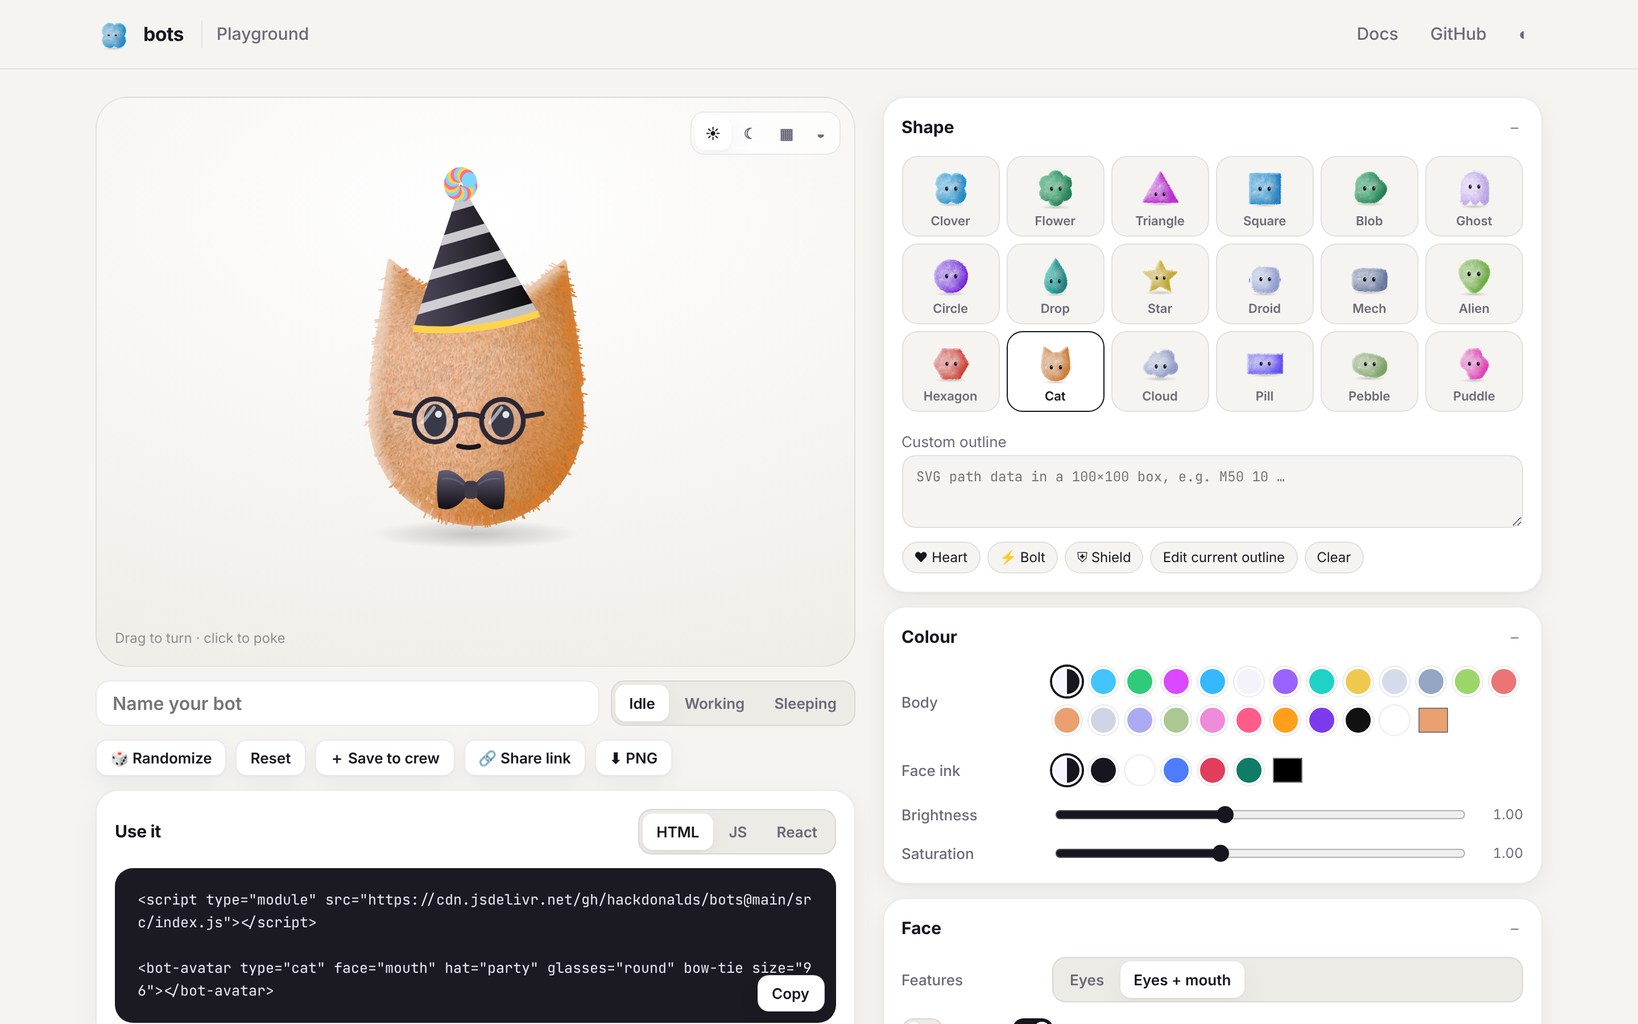
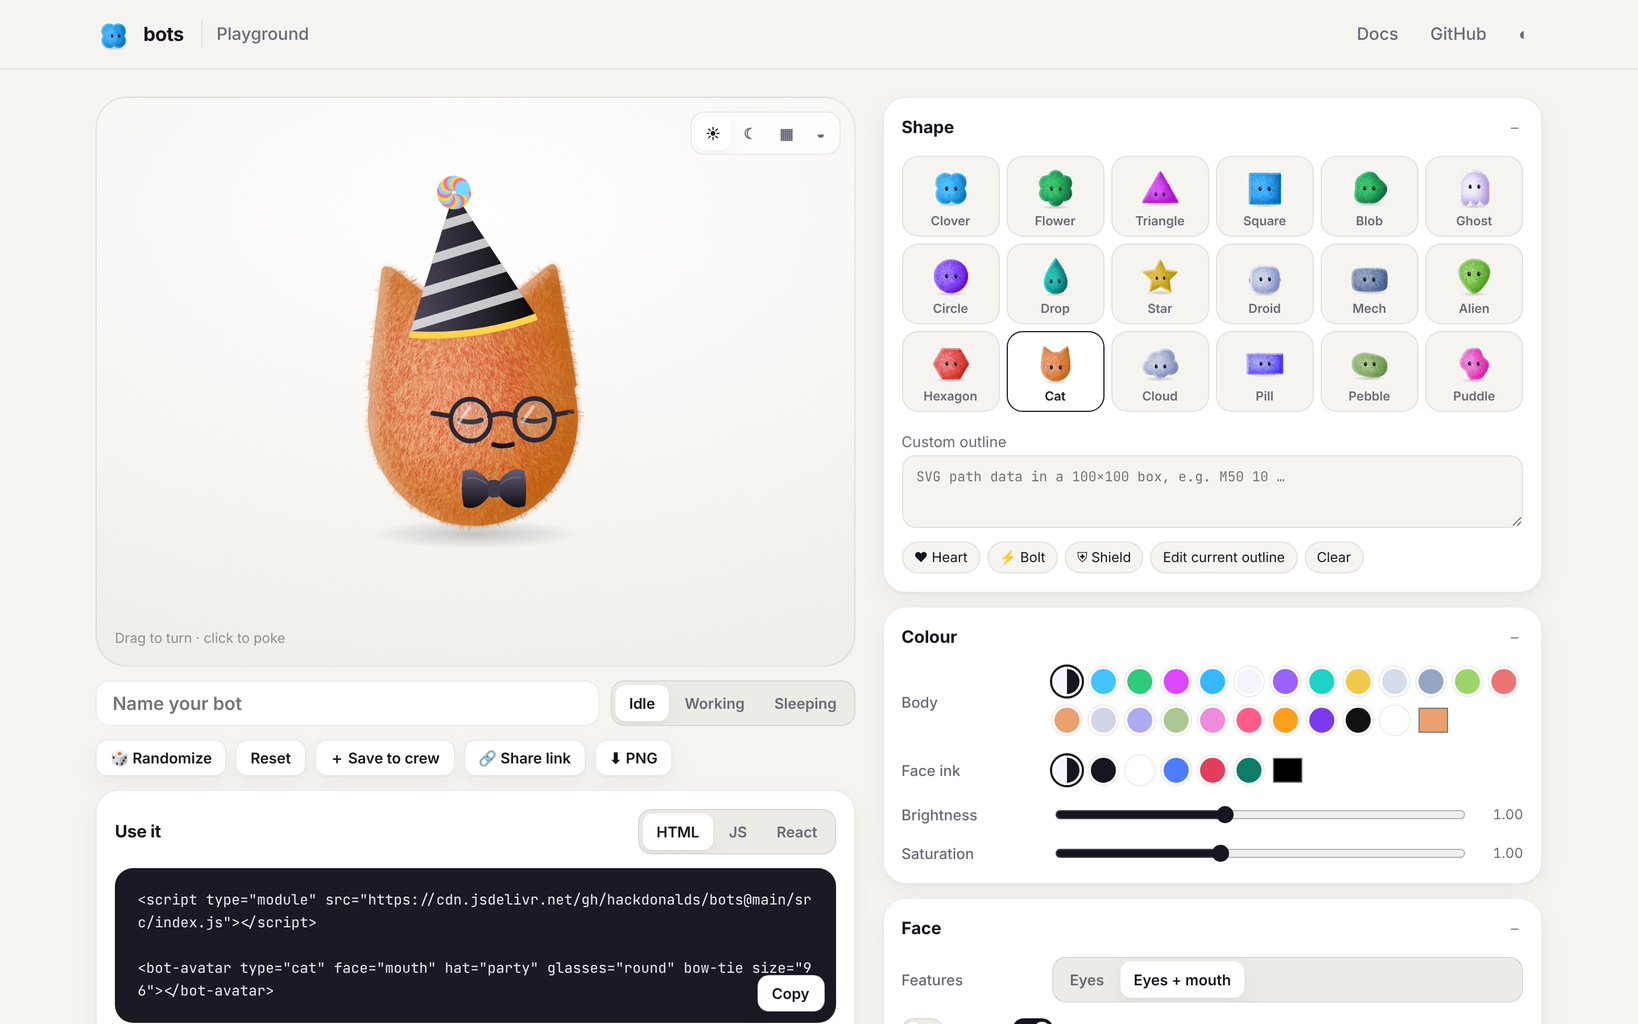
More natural plush: overlay-blended fine pile, soft fuzzy edge, cushion volume
The fur skin is now a colour-independent grey bake laid over the body in
overlay blending (multiply too on pale colours), so the pile keeps the
body's saturation instead of frosting it. Hair-thin strands at device-pixel
scale in deep/body/tip tiers, a crown above the head (no visible parting),
more curl. Adds a broad cushion falloff, a soft fuzz band behind the
silhouette from the cached light buffer, a denser finer fringe, and a
highlight in the body's own colour.

Claude-Session: https://claude.ai/code/session_013h96HCydzUiqHMrSVsiUZ2

diff --git a/src/render.js b/src/render.js
@@ -3,7 +3,7 @@
 // rounding off toward front and back), turned by the pose's yaw and pitch.
 // Light, fur, the face and anything worn are laid over it.
 
-import { shade, rgba, clamp, parseColor } from './color.js';
+import { shade, rgba, clamp, luminance } from './color.js';
 import { mulberry32, smoothstep } from './engine.js';
 
 /** The canvas is this much larger than the avatar's box, so hops never clip. */
@@ -71,18 +71,22 @@ function surface(name, w, h, x = 0, y = 0, cw = w, ch = h) {
 const FAR = 4096;
 const lightCache = new WeakMap();
 
-/** Paint `color × (1 − blur(silhouette shifted by ox, oy))` into `g` (light buffer px). */
-function innerShadowInto(g, M, q, path, { color, blur, ox, oy }, dpr, w, h) {
+/**
+ * Paint `color × (1 − blur(silhouette shifted by ox, oy))` into `g` (light buffer
+ * px), or with `outer`, just `color × blur(silhouette)`.
+ */
+function innerShadowInto(g, M, q, path, { color, blur, ox, oy, outer }, dpr, w, h) {
   // The silhouette is drawn far off the buffer and only its shadow lands on
   // it: a blur that works in every browser, on a handful of pixels.
   g.setTransform(M.a * q, M.b * q, M.c * q, M.d * q, M.e * q - FAR, M.f * q);
-  g.shadowColor = '#000';
+  g.shadowColor = outer ? color : '#000';
   g.shadowBlur = Math.max(0, blur * dpr * q);
   g.shadowOffsetX = FAR + ox * dpr * q;
   g.shadowOffsetY = oy * dpr * q;
   g.fillStyle = '#000';
   g.fill(path);
   g.shadowColor = 'transparent';
+  if (outer) return;
   g.setTransform(1, 0, 0, 1, 0, 0);
   g.globalCompositeOperation = 'source-out';
   g.fillStyle = color;
@@ -98,7 +102,7 @@ function innerShadowInto(g, M, q, path, { color, blur, ox, oy }, dpr, w, h) {
  * @param key    everything the passes depend on besides the pose
  * @param pose   [yaw, pitch, roll, sx, sy] and the device-px scale of each
  */
-function lightLayer(lc, owner, name, path, passes, dpr, q, key, pose, reach) {
+function lightLayer(lc, owner, name, path, passes, dpr, q, key, pose, reach, op = 'source-atop') {
   const M = lc.getTransform();
   const { width: W, height: H } = owner.canvas;
   const w = Math.ceil(W * q) + 2, h = Math.ceil(H * q) + 2;
@@ -129,7 +133,7 @@ function lightLayer(lc, owner, name, path, passes, dpr, q, key, pose, reach) {
   }
   lc.save();
   lc.setTransform(1, 0, 0, 1, M.e - e.e, M.f - e.f);
-  lc.globalCompositeOperation = 'source-atop';
+  lc.globalCompositeOperation = op;
   lc.imageSmoothingEnabled = true;
   lc.drawImage(e.canvas, 0, 0, w, h, 0, 0, w / q, h / q);
   lc.restore();
@@ -137,16 +141,18 @@ function lightLayer(lc, owner, name, path, passes, dpr, q, key, pose, reach) {
 
 // --- Plush -------------------------------------------------------------------
 //
-// The fur is baked once per look into a "skin" in the body's own coordinates and
-// then mapped onto the front of the body every frame with the head's turn, so
-// the pile stays put on the surface instead of sliding under it. The skin is:
-//   · a combed flow field: hair grows out from a crown and falls with gravity,
-//     with a slow noise twisting it into clumps;
-//   · each strand as a dark root (the shadow down inside the pile) and a pale
-//     tip whose brightness follows a Kajiya-Kay fibre term, so strands that lie
-//     across the light catch it and the nap shows as soft bands of sheen;
-//   · low-frequency mottling (the pile pressed one way and another) and fine
-//     grain for the fibre ends.
+// The fur is baked once per shape into a grey "skin" in the body's own
+// coordinates, then laid over the body every frame in 'overlay' blending,
+// mapped with the head's turn so the pile stays put on the surface instead of
+// sliding under it. Overlay darkens and lightens without greying, so one bake
+// serves every colour and the fur keeps the body's full saturation. The skin:
+//   · thousands of short, hair-thin strands at the device's own pixel scale,
+//     painted back to front in tiers: deep pile (dark), body, then tips;
+//   · combed by a flow field — hair grows out from a crown and falls with
+//     gravity, twisted into clumps by a slow noise;
+//   · tips lit by a Kajiya-Kay fibre term, so strands lying across the light
+//     catch it and the nap shows soft bands of sheen;
+//   · faint low-frequency mottling, the pile pressed one way and another.
 
 function valueNoise(rand, n) {
   const g = new Float32Array((n + 1) * (n + 1));
@@ -164,96 +170,89 @@ function valueNoise(rand, n) {
 }
 
 /** How far past the outline (in body units) the skin reaches. */
-const SKIN_EXT = 1.25;
+const SKIN_EXT = 1.2;
 let shapeIds = 0;
 const skins = new Map();
 
 function furSkin(shape, look, la, px) {
   const fl = look.furLength ?? 1, fd = look.furDensity ?? 1.6, fc = look.furCurl ?? 0.7, fg = look.furGravity ?? 0.9;
   // Bake at a resolution bucket so a resize doesn't re-bake every pixel step.
-  const P = Math.min(300, Math.max(24, Math.ceil(px / 16) * 16));
+  const P = Math.min(260, Math.max(24, Math.ceil(px / 16) * 16));
   const id = shape._id ??= ++shapeIds;
-  const key = `${id}|${look.color}|${fl}|${fd}|${fc}|${fg}|${Math.round(la * 100)}|${P}`;
+  const key = `${id}|${fl}|${fd}|${fc}|${fg}|${Math.round(la * 100)}|${P}`;
   let skin = skins.get(key);
   if (skin) { skins.delete(key); skins.set(key, skin); return skin; }
 
   const S = Math.ceil(SKIN_EXT * 2 * P);
   const canvas = makeCanvas(S, S);
   const g = canvas.getContext('2d');
-  const toPx = (v) => (v + SKIN_EXT) * P;
   const rand = mulberry32(0.6180339);
-  const base = look.color;
   const lx = Math.sin(la), ly = -Math.cos(la);
+  g.fillStyle = '#808080';
+  g.fillRect(0, 0, S, S);
 
   // Mottling.
-  const big = valueNoise(rand, 5), mid = valueNoise(rand, 11);
-  const m = Math.max(16, Math.round(S / 6));
+  const big = valueNoise(rand, 4), mid = valueNoise(rand, 9);
+  const m = 48;
   const mc = makeCanvas(m, m), mg = mc.getContext('2d');
   const img = mg.createImageData(m, m);
-  const [dr, dg, db] = parseColor(shade(base, -0.4, 4, 1.1)), [hr, hg, hb] = parseColor(shade(base, 0.3, 0, 0.85));
   for (let y = 0; y < m; y++) for (let x = 0; x < m; x++) {
-    const v = big(x / m, y / m) * 0.65 + mid(x / m, y / m) * 0.35;
+    const v = big(x / m, y / m) * 0.6 + mid(x / m, y / m) * 0.4;
     const o = (y * m + x) * 4;
-    const lit = v > 0;
-    img.data[o] = lit ? hr : dr; img.data[o + 1] = lit ? hg : dg; img.data[o + 2] = lit ? hb : db;
-    img.data[o + 3] = Math.round(Math.min(1, Math.abs(v) * (lit ? 0.22 : 0.34)) * 255);
+    img.data[o] = img.data[o + 1] = img.data[o + 2] = v > 0 ? 255 : 0;
+    img.data[o + 3] = Math.round(Math.min(1, Math.abs(v) * 0.13) * 255);
   }
   mg.putImageData(img, 0, 0);
   g.imageSmoothingEnabled = true;
   g.drawImage(mc, 0, 0, m, m, 0, 0, S, S);
 
-  // Strands.
-  const clumpA = valueNoise(rand, 7), clumpB = valueNoise(rand, 17);
-  const crownY = shape.bounds.minY + (shape.bounds.maxY - shape.bounds.minY) * 0.28;
+  // Strands, sized in device pixels: a hair is a hair at any avatar size.
+  const clumpA = valueNoise(rand, 6), clumpB = valueNoise(rand, 15);
+  // The crown sits above the head, so the parting itself never shows.
+  const crownY = shape.bounds.minY - 0.9;
   const L3 = Math.hypot(lx, ly, 0.9);
   const Lx = lx / L3, Ly = ly / L3, Lz = 0.9 / L3;
-  const BUCKETS = 5;
-  const roots = Array.from({ length: BUCKETS }, () => new Path2D());
-  const tips = Array.from({ length: BUCKETS }, () => new Path2D());
+  const hair = clamp(P * 0.032 * fl, 2.5, 8);
+  const width = clamp(P / 160, 0.55, 1.1);
   const { minX, maxX, minY, maxY } = shape.bounds;
-  const area = (maxX - minX + 0.3) * (maxY - minY + 0.3);
-  const n = Math.round(clamp(area * 4200 * (fd / 1.6) / Math.max(0.6, fl), 1200, 22000));
+  const x0 = (minX - 0.12 + SKIN_EXT) * P, y0 = (minY - 0.12 + SKIN_EXT) * P;
+  const bw = (maxX - minX + 0.24) * P, bh = (maxY - minY + 0.24) * P;
+  const TIERS = 3, SHADES = 4;
+  const tiers = Array.from({ length: TIERS }, () => Array.from({ length: SHADES }, () => new Path2D()));
+  const n = Math.round(clamp((bw * bh * 2.2 * (fd / 1.6)) / (hair * width), 2000, 60000));
   for (let i = 0; i < n; i++) {
-    const x = minX - 0.15 + rand() * (maxX - minX + 0.3);
-    const y = minY - 0.15 + rand() * (maxY - minY + 0.3);
+    const X = x0 + rand() * bw, Y = y0 + rand() * bh;
+    const x = X / P - SKIN_EXT, y = Y / P - SKIN_EXT;
     const u = (x + SKIN_EXT) / (2 * SKIN_EXT), v = (y + SKIN_EXT) / (2 * SKIN_EXT);
     const c1 = clumpA(u, v), c2 = clumpB(u, v);
-    // Tufts: strands thin out in the partings between clumps.
-    if (rand() > 0.62 + 0.38 * c1 * c1 + 0.2 * c2) continue;
     let dx = x, dy = y - crownY;
     const d = Math.hypot(dx, dy) || 1;
-    dx = (dx / d) * 0.6; dy = (dy / d) * 0.6 + fg * 0.75;
-    const ang = Math.atan2(dy, dx) + (c1 * 1.1 + c2 * 0.5) * fc + (rand() - 0.5) * 0.35;
+    dx = (dx / d) * 0.9; dy = (dy / d) * 0.9 + fg * 0.5;
+    const ang = Math.atan2(dy, dx) + (c1 * 1.2 + c2 * 0.6) * fc + (rand() - 0.5) * (0.4 + 0.8 * fc);
     const tx = Math.cos(ang), ty = Math.sin(ang);
-    const len = (0.035 + rand() * 0.045) * fl * (0.85 + 0.3 * c1);
-    const bend = (rand() - 0.5) * fc * len * 0.9;
-    // Kajiya-Kay: a fibre is brightest when it lies across the light.
-    const tz = -0.35, tl = Math.hypot(tx, ty, tz);
-    const TL = (tx * Lx + ty * Ly + tz * Lz) / tl;
-    const kk = Math.sqrt(Math.max(0, 1 - TL * TL));
-    const b = clamp(Math.floor((kk * 0.75 + rand() * 0.35) * BUCKETS), 0, BUCKETS - 1);
-    const X = toPx(x), Y = toPx(y), l = len * P, bx = -ty * bend * P, by = tx * bend * P;
-    const rp = roots[clamp(Math.floor(rand() * BUCKETS), 0, BUCKETS - 1)];
-    rp.moveTo(X - tx * l * 0.15, Y - ty * l * 0.15);
-    rp.quadraticCurveTo(X + tx * l * 0.25 + bx * 0.5, Y + ty * l * 0.25 + by * 0.5, X + tx * l * 0.55, Y + ty * l * 0.55);
-    const tp = tips[b];
-    tp.moveTo(X + tx * l * 0.2, Y + ty * l * 0.2);
-    tp.quadraticCurveTo(X + tx * l * 0.6 + bx, Y + ty * l * 0.6 + by, X + tx * l, Y + ty * l);
+    const l = hair * (0.6 + rand() * 0.8);
+    const bend = (rand() - 0.5) * fc * l * 1.1;
+    const tier = i < n * 0.45 ? 0 : i < n * 0.85 ? 1 : 2;
+    let shadeI;
+    if (tier === 0) shadeI = Math.floor(rand() * SHADES);
+    else {
+      // Kajiya-Kay: a fibre is brightest when it lies across the light.
+      const tz = -0.4, tl = Math.hypot(tx, ty, tz);
+      const TL = (tx * Lx + ty * Ly + tz * Lz) / tl;
+      const kk = Math.sqrt(Math.max(0, 1 - TL * TL));
+      shadeI = clamp(Math.floor((kk * 0.7 + rand() * 0.45 + c2 * 0.15) * SHADES), 0, SHADES - 1);
+    }
+    const p = tiers[tier][shadeI];
+    p.moveTo(X, Y);
+    p.quadraticCurveTo(X + tx * l * 0.5 - ty * bend, Y + ty * l * 0.5 + tx * bend, X + tx * l, Y + ty * l);
   }
-  const darkC = shade(base, -0.42, 6, 1.15), tipC = shade(base, 0.38, -4, 0.8);
   g.lineCap = 'round';
-  g.lineWidth = Math.max(0.6, P * 0.012);
-  roots.forEach((p, i) => { g.strokeStyle = rgba(darkC, 0.08 + i * 0.03); g.stroke(p); });
-  g.lineWidth = Math.max(0.45, P * 0.0075);
-  tips.forEach((p, i) => { g.strokeStyle = rgba(tipC, 0.04 + i * 0.055); g.stroke(p); });
-
-  // Grain.
-  const grain = [new Path2D(), new Path2D()];
-  const dots = Math.round(S * S * 0.012);
-  const dot = Math.max(1, P / 80);
-  for (let i = 0; i < dots; i++) grain[i & 1].rect(rand() * S, rand() * S, dot, dot);
-  g.fillStyle = rgba(darkC, 0.16); g.fill(grain[0]);
-  g.fillStyle = rgba(tipC, 0.16); g.fill(grain[1]);
+  g.lineWidth = width * 1.3;
+  tiers[0].forEach((p, i) => { g.strokeStyle = `rgba(0,0,0,${0.28 + i * 0.07})`; g.stroke(p); });
+  g.lineWidth = width;
+  tiers[1].forEach((p, i) => { g.strokeStyle = i < 2 ? `rgba(0,0,0,${0.26 - i * 0.1})` : `rgba(255,255,255,${0.06 + (i - 2) * 0.07})`; g.stroke(p); });
+  g.lineWidth = width * 0.85;
+  tiers[2].forEach((p, i) => { g.strokeStyle = i < 1 ? 'rgba(0,0,0,0.16)' : `rgba(255,255,255,${0.07 + (i - 1) * 0.08})`; g.stroke(p); });
 
   skin = { canvas, P, S };
   skins.set(key, skin);
@@ -488,6 +487,10 @@ export function drawBot(ctx, { size, dpr = 1, pose, look, time = 0 }) {
   lc.fill(body);
   lc.globalCompositeOperation = 'source-atop';
   const cover = () => lc.fillRect(-R * 3, -R * 3, R * 6, R * 6);
+  const Rpx = R * dpr;
+  const poseSig = [pose.yaw, pose.pitch, pose.roll, pose.sx, pose.sy];
+  const moves = [Rpx * (1 + D), Rpx * (1 + D), Rpx * 2, Rpx, Rpx * 2];
+  const lightKey = `${shape._id ??= ++shapeIds}|${R}|${D}|${dpr}|${la}|${base}|${look.shading}|${shadowK}|${highK}|${rimK}|${look.spread}`;
 
   // Turn shading: the side that shows as the head turns.
   {
@@ -512,30 +515,39 @@ export function drawBot(ctx, { size, dpr = 1, pose, look, time = 0 }) {
       // The baked skin rides on the front of the body with the turn. Seen edge
       // on it would smear, so it gives way to the slices' own shading there.
       const skin = furSkin(shape, look, la, R * dpr);
-      const zf = D * 0.6;
+      const zf = D * 0.6, e = SKIN_EXT;
+      const facingK = smoothstep(Math.abs(c0) * 1.4 - 0.2);
       lc.save();
-      lc.transform(R * c, -R * s * sp, 0, R * cp, R * zf * s, R * zf * c0 * sp);
-      const e = SKIN_EXT;
-      for (const [alpha, dz] of [[0.55, -2 * zf], [1, 0]]) {
+      // Overlay can't darken near-white, so pale bodies also take the skin
+      // in 'multiply' to show their pile.
+      const pale = clamp((luminance(base) - 0.5) * 1.2, 0, 0.5);
+      for (const [alpha, dz, op] of [[0.6, -2 * zf, 'overlay'], [1, 0, 'overlay'], [pale, 0, 'multiply']]) {
+        if (alpha <= 0) continue;
+        lc.globalCompositeOperation = op;
         // A second, fainter copy at the back covers the side that shows mid-turn.
         if (alpha < 1 && Math.abs(s) < 0.15) continue;
-        lc.globalAlpha = alpha * (0.35 + 0.65 * smoothstep(Math.abs(c0) * 1.4 - 0.2));
-        lc.drawImage(skin.canvas, 0, 0, skin.S, skin.S, -e + (dz * s) / c, -e + (dz * sp * (c0 + (s * s) / c)) / cp, 2 * e, 2 * e);
+        const pat = lc.createPattern(skin.canvas, 'no-repeat');
+        if (!pat) continue;
+        const z = zf + dz;
+        // Skin pixels → body units → the front of the body, turned.
+        pat.setTransform(new DOMMatrix([R * c, -R * s * sp, 0, R * cp, R * z * s, R * z * c0 * sp])
+          .translate(-e, -e).scale(1 / skin.P));
+        lc.globalAlpha = alpha * (0.55 + 0.45 * facingK);
+        lc.fillStyle = pat;
+        lc.fill(body);
       }
       lc.restore();
     }
 
     const q = clamp(120 / Math.max(W, H), 0.2, 0.5);
-    const Rpx = R * dpr;
-    const poseSig = [pose.yaw, pose.pitch, pose.roll, pose.sx, pose.sy];
-    const moves = [Rpx * (1 + D), Rpx * (1 + D), Rpx * 2, Rpx, Rpx * 2];
-    const lightKey = `${shape._id ??= ++shapeIds}|${R}|${D}|${dpr}|${la}|${base}|${look.shading}|${shadowK}|${highK}|${rimK}|${look.spread}`;
     // Shade side (an inner shadow pushed toward the light) and occlusion all
     // round the edge for the inflated look, in one buffer.
     const blur = R * (fabric ? 0.55 : look.shading === 'smooth' ? 0.7 : 0.45) * (look.spread ?? 1.4) / 1.4;
     lightLayer(lc, ctx, 'shade', body, [
-      { color: rgba(darkC, clamp(0.62 * shadowK, 0, 1)), blur, ox: lx * R * 0.32, oy: ly * R * 0.32 },
-      { color: rgba(darkC, clamp(0.32 * shadowK, 0, 1)), blur: R * 0.16, ox: 0, oy: 0 },
+      { color: rgba(darkC, clamp(0.7 * shadowK, 0, 1)), blur, ox: lx * R * 0.32, oy: ly * R * 0.32 },
+      { color: rgba(darkC, clamp(0.38 * shadowK, 0, 1)), blur: R * 0.2, ox: 0, oy: 0 },
+      // Plush is a cushion: it falls off broadly toward every edge.
+      ...(fabric ? [{ color: rgba(darkC, clamp(0.3 * shadowK, 0, 1)), blur: R * 0.6, ox: 0, oy: R * 0.05 }] : []),
     ], dpr, q, lightKey, poseSig, moves);
 
     // Lit side.
@@ -543,15 +555,19 @@ export function drawBot(ctx, { size, dpr = 1, pose, look, time = 0 }) {
     const spread = look.spread ?? 1.4;
     const g = lc.createRadialGradient(hx, hy, 0, hx, hy, R * 0.95 * spread);
     const hiA = (fabric ? 0.2 : look.shading === 'plastic' ? 0.3 : 0.26) * highK;
-    g.addColorStop(0, `rgba(255,255,255,${clamp(hiA)})`);
-    g.addColorStop(1, 'rgba(255,255,255,0)');
+    // Plush lights in its own colour; white would grey it.
+    const hiC = fabric ? shade(base, 0.32, 0, 1.05) : '#ffffff';
+    // Pale bodies are already near white: they take less of it.
+    const hiF = fabric ? 1.3 * (1 - 0.9 * luminance(base)) : 1;
+    g.addColorStop(0, rgba(hiC, clamp(hiA * hiF)));
+    g.addColorStop(1, rgba(hiC, 0));
     lc.fillStyle = g;
     cover();
 
     // Back light / Fresnel rim on the far side from the key. Velvet and plush
     // scatter most at grazing angles, so the fabric rim is a soft sheen.
     if (rimK > 0 && look.shading !== 'smooth') {
-      const rimCol = look.shading === 'plastic' ? 'rgba(255,255,255,0.75)' : rgba(shade(base, fabric ? 0.32 : 0.35, 0, fabric ? 0.75 : 1), fabric ? 0.75 : 0.9);
+      const rimCol = look.shading === 'plastic' ? 'rgba(255,255,255,0.75)' : rgba(shade(base, fabric ? 0.25 : 0.35, 0, 1), fabric ? 0.45 : 0.9);
       lightLayer(lc, ctx, 'rim', body, [{
         color: rimCol,
         blur: R * (look.shading === 'crisp' ? 0.02 : 0.08) * (0.6 + rimK),
@@ -591,6 +607,15 @@ export function drawBot(ctx, { size, dpr = 1, pose, look, time = 0 }) {
     lc.restore();
   }
 
+  if (fabric) {
+    // The pile seen edge on: a soft, semi-transparent band of fuzz just
+    // outside the silhouette, behind the body, darker where it's in shade.
+    const fuzz = (look.furFuzz ?? 0.9) * (look.furLength ?? 1);
+    lightLayer(lc, ctx, 'fuzz', body, [
+      { color: rgba(shade(base, -0.18, 2, 0.6), 0.5), blur: R * 0.035 * fuzz, ox: -lx * R * 0.01, oy: -ly * R * 0.01, outer: true },
+    ], dpr, clamp(170 / Math.max(W, H), 0.3, 0.7), `${lightKey}|${fuzz}`, poseSig, moves, 'destination-over');
+  }
+
   if (look.shading === 'crisp') {
     // Behind the body, so only the silhouette's outline shows, not every slice.
     lc.globalCompositeOperation = 'destination-over';
@@ -610,7 +635,7 @@ export function drawBot(ctx, { size, dpr = 1, pose, look, time = 0 }) {
     const fuzz = look.furFuzz ?? 0.9;
     const grav = look.furGravity ?? 0.9;
     const curl = look.furCurl ?? 0.7;
-    const list = strands(shape, Math.round(900 * (look.furDensity ?? 1.6) / 1.6 * (0.4 + fuzz)));
+    const list = strands(shape, Math.round(2400 * (look.furDensity ?? 1.6) / 1.6 * (0.4 + fuzz)));
     const TONES = 3;
     const paths = Array.from({ length: TONES }, () => new Path2D());
     const swayT = time * 2.2;
@@ -627,18 +652,18 @@ export function drawBot(ctx, { size, dpr = 1, pose, look, time = 0 }) {
       let dx = nx1 + st.jitter * 0.5, dy = ny1 + grav * 0.45 + Math.sin(swayT + st.tone * 6) * 0.04;
       const l = Math.hypot(dx, dy) || 1;
       dx /= l; dy /= l;
-      const len = R * 0.05 * fl * st.len * (0.6 + fuzz * 0.6) * (1 - a * 1.2);
+      const len = R * 0.055 * fl * st.len * (0.6 + fuzz * 0.6) * (1 - a * 1.2);
       const bx = -dy * st.bend * curl * len * 0.8, by = dx * st.bend * curl * len * 0.8;
       const lit = clamp(0.5 + 0.5 * (nx1 * lx + ny1 * ly) + (st.tone - 0.5) * 0.5, 0, 0.999);
       const p = paths[Math.floor(lit * TONES)];
       // Short enough that a straight stroke with a bent tip reads as a curl.
-      p.moveTo(X - dx * len * 0.5, Y - dy * len * 0.5);
+      p.moveTo(X - dx * len * 0.7, Y - dy * len * 0.7);
       p.lineTo(X + dx * len + bx, Y + dy * len + by);
     }
     ctx.lineCap = 'butt';
     // Tones match the body where each strand grows: shaded, mid and lit.
-    ctx.lineWidth = Math.max(0.5, R * 0.01);
-    const tones = [rgba(shade(base, -0.16, 3, 0.9), 0.9), rgba(shade(base, -0.03, 0, 0.9), 0.85), rgba(shade(base, 0.12, 0, 0.8), 0.8)];
+    ctx.lineWidth = Math.max(0.4, R * 0.006);
+    const tones = [rgba(shade(base, -0.24, 3, 0.85), 0.45), rgba(shade(base, -0.1, 0, 0.9), 0.45), rgba(shade(base, 0.04, 0, 0.95), 0.45)];
     paths.forEach((p, i) => { ctx.strokeStyle = tones[i]; ctx.stroke(p); });
   }
 

diff --git a/bench/grid.html b/bench/grid.html
@@ -6,11 +6,12 @@
 import { BotAvatar, types } from '../src/index.js';
 const qs = new URLSearchParams(location.search);
 const n = +(qs.get('n') || 30), size = +(qs.get('size') || 96), shading = qs.get('shading') || 'fabric';
+const only = qs.get('types')?.split(',');
 for (let i = 0; i < n; i++) {
   const d = document.createElement('div');
   d.style.width = d.style.height = size + 'px';
   document.body.append(d);
-  new BotAvatar(d, { type: types[i % types.length], size, seed: i / n, shading, interactive: false, state: i % 3 === 1 ? 'working' : 'default' });
+  new BotAvatar(d, { type: (only || types)[i % (only || types).length], size, seed: i / n, shading, interactive: false, state: only ? (qs.get('state') || 'sleeping') : i % 3 === 1 ? 'working' : 'default' });
 }
 await new Promise((r) => setTimeout(r, 1000));
 let frames = 0; const t0 = performance.now();

diff --git a/README.md b/README.md
@@ -94,7 +94,7 @@ Every frame is plain 2D canvas, built to stay cheap with many avatars on a page:
 - **Adaptive depth.** The body is its outline stacked through its depth, but only with as many slices as the turn needs: one when facing you, more (about 3 device pixels apart) as front and back pull apart.
 - **Body layer, no clips.** Everything on the body (turn shading, fur, light, face) is painted into one shared offscreen layer with `source-atop`, then composited in a single draw of just the body's box.
 - **Deferred, reused light.** Inner shadow, occlusion and rim are blurred in a small buffer (≈120 px) and stretched back over the crisp silhouette. Each avatar keeps its buffers between frames: a hop only shifts them, and they're re-lit only once the outline has changed by about a buffer pixel.
-- **Baked plush.** The fur is baked once per look into a skin in the body's own coordinates and mapped onto the front of the body with the turn, so the pile stays on the surface. It's a combed flow field (hair grows from a crown and falls with gravity, twisted into clumps by noise), each strand a dark root and a pale tip lit with a Kajiya–Kay fibre term so the nap shows soft bands of sheen, plus mottling and grain. A fine fringe of strands, toned by the light, softens the silhouette.
+- **Baked plush.** The fur is baked once per shape into a grey skin in the body's own coordinates and laid over the body in `overlay` blending (plus a touch of `multiply` on pale colours), mapped with the turn so the pile stays on the surface. Overlay darkens and lightens without greying, so one bake serves every colour and the fur keeps the body's saturation. The skin is tens of thousands of hair-thin strands at device-pixel scale, painted in tiers (deep pile, body, tips), combed by a flow field (hair falls from a crown above the head, twisted into clumps by noise), with tips lit by a Kajiya–Kay fibre term so the nap shows soft sheen. A broad cushion falloff gives the volume, and the edge is a soft band of fuzz behind the silhouette with a dense fringe of fine strands, toned by the light.
 - **Only draw what changed.** A frame is skipped when the pose has moved less than a quarter of a device pixel, so a resting avatar breathing in sub-pixel steps is mostly free. Off-screen and reduced-motion avatars don't animate.
 - **Frame budget.** All avatars share one animation loop. When the page can't keep up, they take turns redrawing while their simulations keep real time, so the page keeps its frame rate.
 
